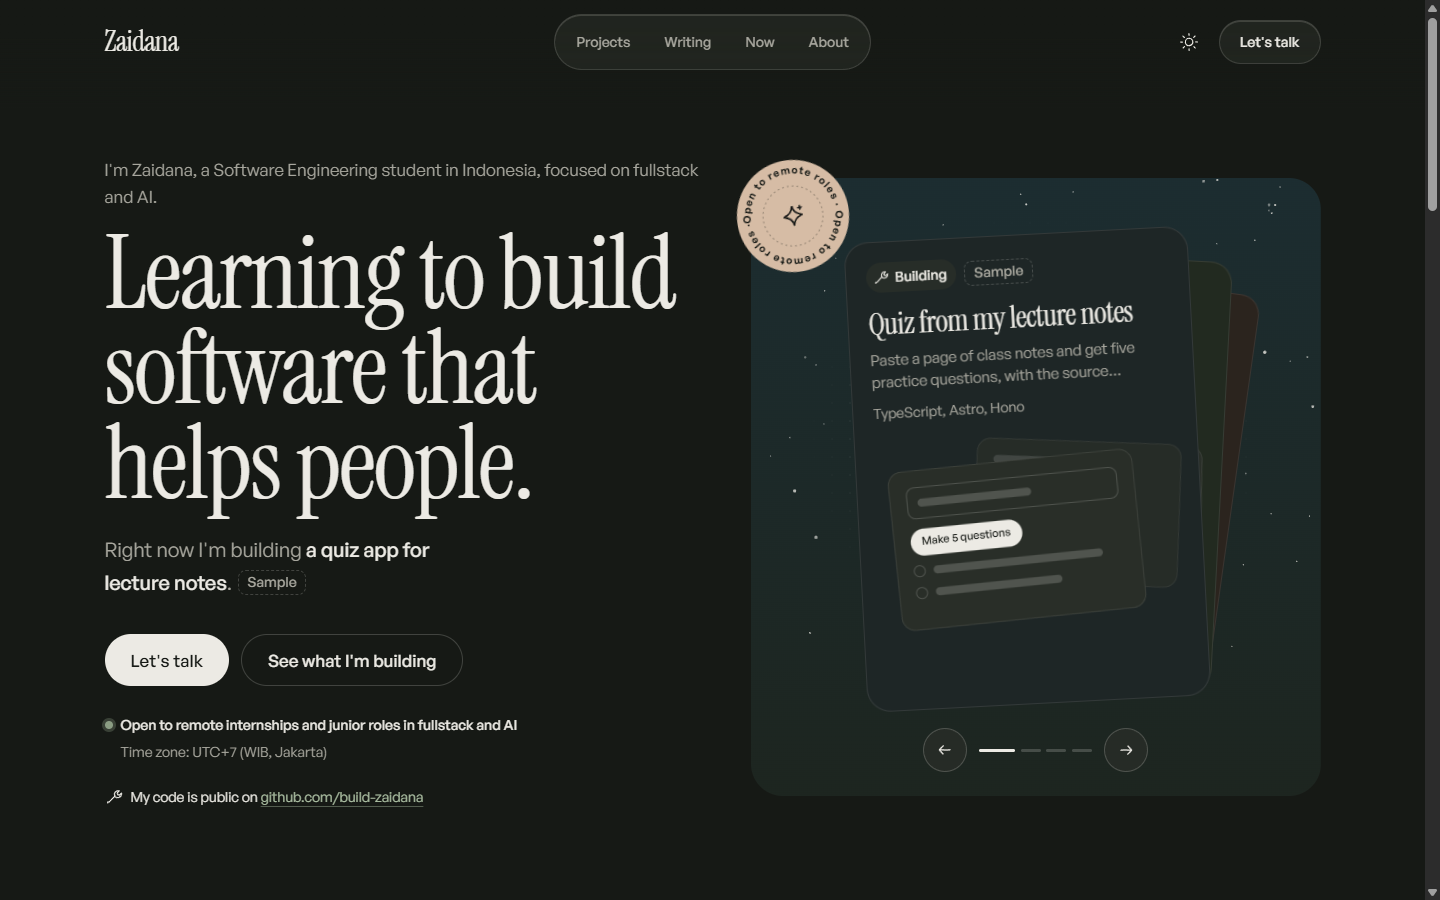
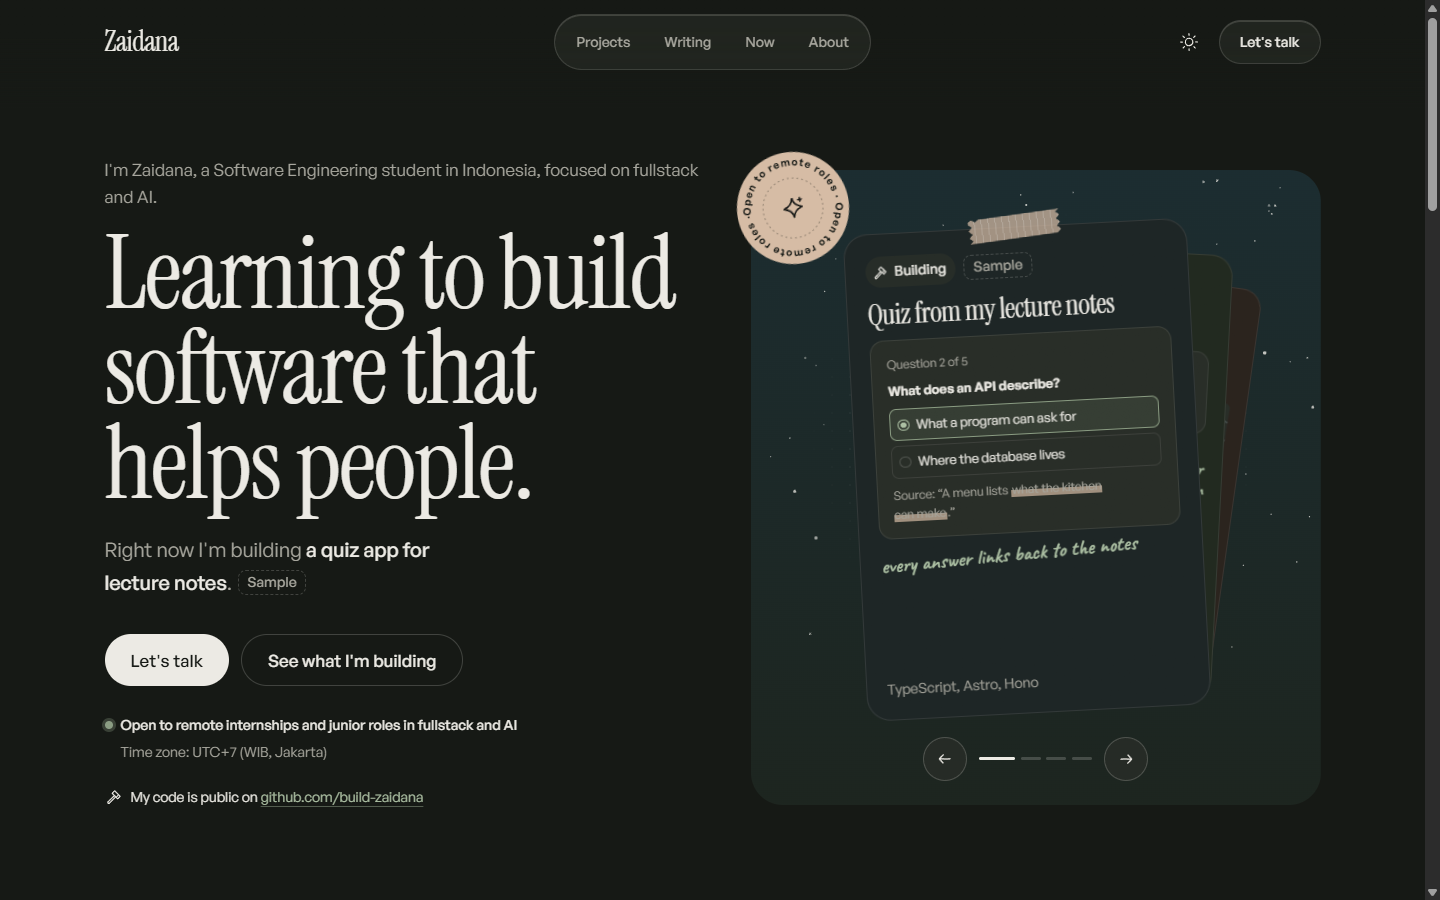
docs: notebook card decision, mockups, and updated screenshots

Changed region(s): [[0.5, 0.1556, 0.9062, 0.6844], [0.625, 0.7467, 0.7188, 0.7778]]

diff --git a/ARCHITECTURE.md b/ARCHITECTURE.md
@@ -11,7 +11,7 @@
 | Styling | Tailwind CSS 4 lewat `@tailwindcss/vite` + CSS scoped per komponen | 4.3 |
 | Bahasa | TypeScript `astro/tsconfigs/strict` (TS 6) | 6.0 |
 | Konten | Markdown + Content Collections (`glob()` loader, Zod 4 dari `astro/zod`) | — |
-| Font | Astro Fonts API (diunduh saat build, di-self-host) | — |
+| Font | Astro Fonts API (diunduh saat build, di-self-host): Instrument Serif, General Sans, JetBrains Mono, Caveat | — |
 | Format | Prettier + `prettier-plugin-astro` + `prettier-plugin-tailwindcss` | 3.9 |
 | Host | Netlify (Fase 6) | — |
 | Node | ≥ 22.12 (dev: 24) | — |
@@ -53,7 +53,7 @@
 │   │   ├── WhereNext.astro   # 4 pintu navigasi (daylight)
 │   │   ├── ui/               # Button, StatusChip, SampleBadge, SketchIcon, SketchFilter, Sticker, ProgressiveFade
 │   │   ├── cards/            # ProjectCard + ProjectArt (craft), WritingCard (notch), CalmCard (letters)
-│   │   └── home/             # Hero, HeroStack, SkyBackdrop, StoryReveal
+│   │   └── home/             # Hero, HeroStack (perilaku), HeroCardFace (isi card notebook), SkyBackdrop, StoryReveal
 │   └── pages/              # routing berbasis file
 │       ├── index.astro     # Home
 │       ├── about.astro
@@ -88,6 +88,8 @@ Paralel dengan itu, `integrations/sample-report.ts` membaca frontmatter langsung
 **Fakta tentang Zaidana** (peran, negara, zona waktu, GitHub, CV) hanya diambil dari `profile` di `src/lib/site.ts`. Klaim baru harus ditambahkan di sana dulu (sumber: PRD §1/§4 atau jawaban user).
 
 **Hero stack:** `getHeroCards()` mengambil proyek teratas, entri /now terbaru, dan tulisan terbaru, lalu selalu menambahkan card asli "This site". Kata kerja kalimat hero mengikuti status proyek (idea → planning, building → building, shipped → improving). Field opsional `phrase` di proyek/tulisan dipakai untuk kalimat, dengan fallback judul berkutip. Kalau card depan adalah sample, kalimatnya ikut berlabel Sample.
+
+**Isi card (notebook):** `HeroCardFace` menggambar isi spesifik per jenis card. Field opsional di konten: `heroNote` (catatan tangan, proyek/tulisan/now), `highlight` (frasa yang distabilo di paragraf pembuka artikel, diambil otomatis dari body), `snippet` (kode di entri /now). Tanpa field itu, card tetap tampil tanpa elemen tersebut.
 
 ## 4. Design tokens
 
@@ -175,7 +177,7 @@ Pasangan baru **wajib** ditambahkan ke `TEXT_PAIRS` di `src/lib/contrast.ts` seb
 | `text-step-0` | 17px / 1.6 | General Sans | Body |
 | `text-step--1` | 14px | General Sans | Meta, tombol, chip |
 
-Instrument Serif hanya punya satu bobot yang tipis, jadi **tidak dipakai di bawah 30px**. JetBrains Mono **hanya untuk kode**, tidak untuk label (anti-slop).
+Instrument Serif hanya punya satu bobot yang tipis, jadi **tidak dipakai di bawah 30px** (pengecualian: judul card hero 24–28px). **Caveat** (`--font-hand`) hanya untuk catatan tangan di card hero, tidak untuk teks lain. JetBrains Mono **hanya untuk kode**, tidak untuk label (anti-slop).
 
 ### Radius, elevasi, motion
 
@@ -287,3 +289,4 @@ Card stack **tidak pernah autoplay**. Durasi 150–400ms. `prefers-reduced-motio
 | 014 | Langit dari SVG filter (bukan gambar) | Orisinal, ringan, otomatis ikut tema lewat token | Foto/ilustrasi awan (aset berlisensi, berat) |
 | 015 | Scroll reveal dengan CSS scroll-driven animations | Nol JS, mudah dimatikan, fallback teks penuh | GSAP ScrollTrigger |
 | 016 | Timeline sebagai collection `file()` YAML | Satu file mudah diedit, ikut guard sample | Array di halaman (lolos dari guard) |
+| 017 | Card hero bergaya notebook dengan isi dari field konten | Personal dan spesifik, tapi tetap data-driven (tidak ada klaim hardcoded) | Skeleton generik (terlalu polos), kolase (bertabrakan dengan tumpukan) |

diff --git a/docs/progress.md b/docs/progress.md
@@ -27,6 +27,9 @@
 - 2026-09-25 — Hero: konsep **A (card stack) + baris logistik** dari C.
 - 2026-09-25 — Zona waktu **WIB (UTC+7)**. Jam/minggu & tanggal mulai **tidak ditampilkan** (belum pasti).
 - 2026-09-25 — Bukti non-sample di layar pertama: **github.com/build-zaidana**.
+- 2026-09-25 — Card hero bergaya **Notebook** (option 1 dari 2 mockup): isi spesifik per entri, catatan tangan, stabilo, selotip washi, tekstur kertas.
+- 2026-09-25 — Font tulisan tangan **Caveat** (self-host, 1 bobot), hanya untuk catatan margin.
+- 2026-09-25 — Ikon "build" diganti **palu** (wrench terbaca seperti bulan sabit).
 - 2026-09-25 — Nav memakai "Projects" (bukan "Work") supaya konsisten dengan URL & tombol.
 - 2026-09-25 — 5 usulan review PRD disetujui: sample dikecualikan dari production (flag `SHOW_SAMPLES`), bukti non-sample di layar pertama, logistik remote, analytics gratis tanpa cookie (F8), target 2 tulisan/bulan.
 
@@ -151,4 +154,16 @@ User: animasi terasa kaku di semua bagian (tombol, card, ganti tema, pindah hala
 - Halaman detail proyek: callout beranotasi (lovi) + format Problem → Approach → Result → Learnings.
 - Pil nav aktif sudah siap bergeser saat halaman Projects/Writing/Now ada.
 - Tambahkan field `phrase` di proyek/tulisan asli supaya kalimat hero tetap enak dibaca.
+
+#### Revisi setelah review user (2026-09-25)
+User: ikon wrench terlihat seperti bulan sabit bertangkai; card stack terlalu polos.
+- Ikon `build` digambar ulang sebagai palu (dicek di 16/24/64px).
+- 2 mockup hi-fi (Notebook vs Collage, `docs/screenshots/fase-2/card-options-*.png`) → user memilih Notebook.
+- `HeroCardFace.astro` baru: mini-kuis, kode dengan syntax highlight, paragraf pembuka artikel asli + stabilo, miniatur situs ini, catatan tangan (Caveat), selotip washi, tekstur kertas. Isi berasal dari field opsional baru: `heroNote` (proyek/tulisan/now), `highlight` (tulisan), `snippet` (now).
+- Card muat di 360–1440px tanpa terpotong dan tanpa scroll horizontal (dicek per card, termasuk saat card dilempar).
+- 🔑 Font tulisan tangan hanya untuk catatan — astro fonts api · fontsource caveat
+- 🔑 Highlighter kode tanpa library — regex tokenizer · set:html · html escaping
+- 🔑 Tekstur kertas tanpa gambar — svg feTurbulence data uri · mix-blend-mode multiply
+- 🔑 Selotip dengan ujung sobek — css clip-path polygon · repeating-linear-gradient
+- Catatan kerja: dev server kadang menahan CSS lama setelah file diedit lewat skrip; `touch <file>` memaksa watcher memuat ulang.
 

diff --git a/docs/keywords.md b/docs/keywords.md
@@ -32,6 +32,7 @@
 | `astro file() loader` | Astro | src/content.config.ts (timeline) | 2 |
 | `set:text` | Astro | HeroStack (mini code) | 2 |
 | `Astro.slots.has` | Astro | ProgressiveFade, CalmCard | 2 |
+| `set:html` | Astro | HeroCardFace (kode ter-highlight) | 2 |
 
 ## Tailwind / CSS
 
@@ -60,6 +61,9 @@
 | `transform-style preserve-3d` | CSS | HeroStack deck | 2 |
 | `touch-action pan-y` | CSS | HeroStack (swipe vs scroll) | 2 |
 | `mask-image linear-gradient` | CSS | ProgressiveFade | 2 |
+| `css clip-path polygon` | CSS | HeroCardFace (selotip sobek) | 2 |
+| `repeating-linear-gradient` | CSS | HeroCardFace (selotip, kertas bergaris) | 2 |
+| `overflow: clip` | CSS | Hero (frame di mobile) | 2 |
 
 ## Design / Typography
 
@@ -76,6 +80,9 @@
 | `svg feColorMatrix` | Illustration | SkyBackdrop (clouds) | 2 |
 | `svg mask halftone` | Illustration | SkyBackdrop | 2 |
 | `seeded PRNG mulberry32` | Illustration | SkyBackdrop (stars) | 2 |
+| `fontsource caveat` | Typography | Catatan tangan di card hero | 2 |
+| `svg feTurbulence data uri` | Illustration | HeroStack (tekstur kertas) | 2 |
+| `mix-blend-mode multiply` | Illustration | HeroStack (tekstur kertas) | 2 |
 
 ## Accessibility
 
